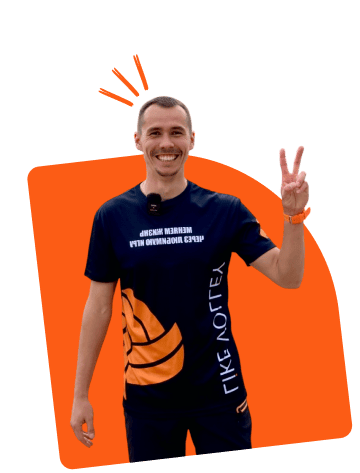
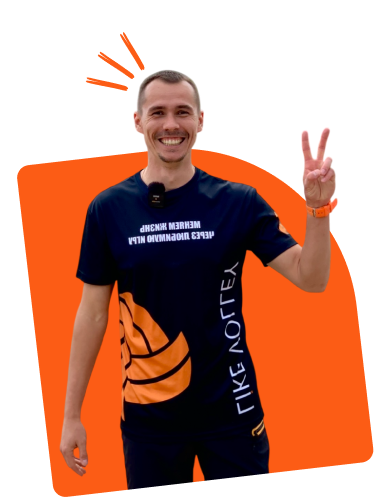
fix(public): change images

diff --git a/src/widgets/coaches/model/data.ts b/src/widgets/coaches/model/data.ts
@@ -4,31 +4,31 @@ export const coachesData: Coach[] = [
   {
     name: "Евгений Быков",
     description: "Старший тренер в городе Бресте, чемпион по волейболу 2018г",
-    src: "/coaches/bulls.png",
+    src: "/coaches/bulls.webp",
     alt: "Фото тренера Евгения Быкова",
   },
   {
     name: "Александр Рыбко",
     description: "Старший тренер в городе Бресте, чемпион по волейболу 2018г",
-    src: "/coaches/rybko.png",
+    src: "/coaches/rybko.webp",
     alt: "Фото тренера Александра Рыбко",
   },
   {
     name: "Игорь Гурский",
     description: "Старший тренер в городе Бресте, чемпион по волейболу 2018г",
-    src: "/coaches/gursky.png",
+    src: "/coaches/gursky.webp",
     alt: "Фото тренера Игоря Гурского",
   },
   {
     name: "Ангелина Горбачева",
     description: "Старший тренер в городе Бресте, чемпион по волейболу 2018г",
-    src: "/coaches/gorbacheva.png",
+    src: "/coaches/gorbacheva.webp",
     alt: "Фото тренера Ангелины Горбачевой",
   },
   {
     name: "Егор Киселев",
     description: "Старший тренер в городе Бресте, чемпион по волейболу 2018г",
-    src: "/coaches/kiselyov.png",
+    src: "/coaches/kiselyov.webp",
     alt: "Фото тренера Ангелины Горбачевой",
   },
 ] as const;
@@ -37,6 +37,6 @@ export const ownerData: Coach = {
   name: "Владислав Голодухин",
   description:
     "Профессиональный тренер по волейболу с более чем 10-летним опытом работы. Специализируется на развитии техники, командной стратегии и физической подготовки игроков. Его подход сочетает дисциплину и мотивацию, помогая спортсменам достигать высоких результатов на площадке.",
-  src: "/coaches/golodukhin.png",
+  src: "/coaches/golodukhin.webp",
   alt: "Фото тренера Владислава Голодухина",
 } as const;
